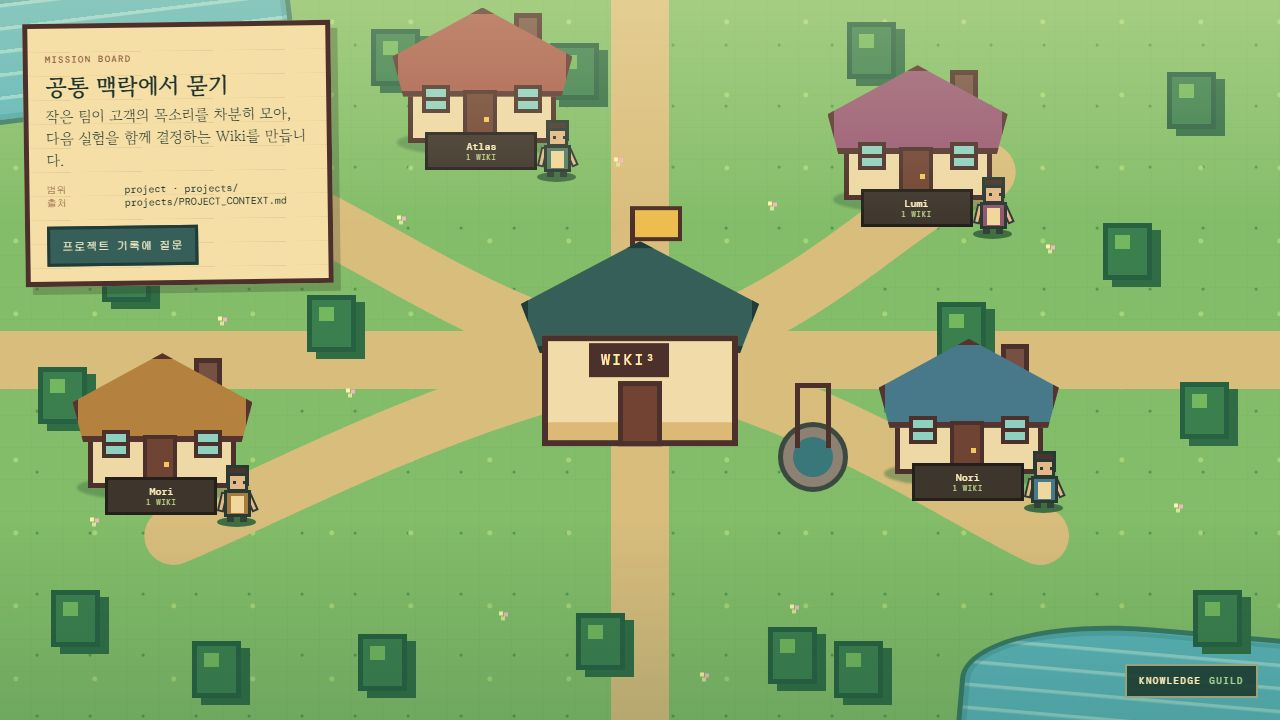
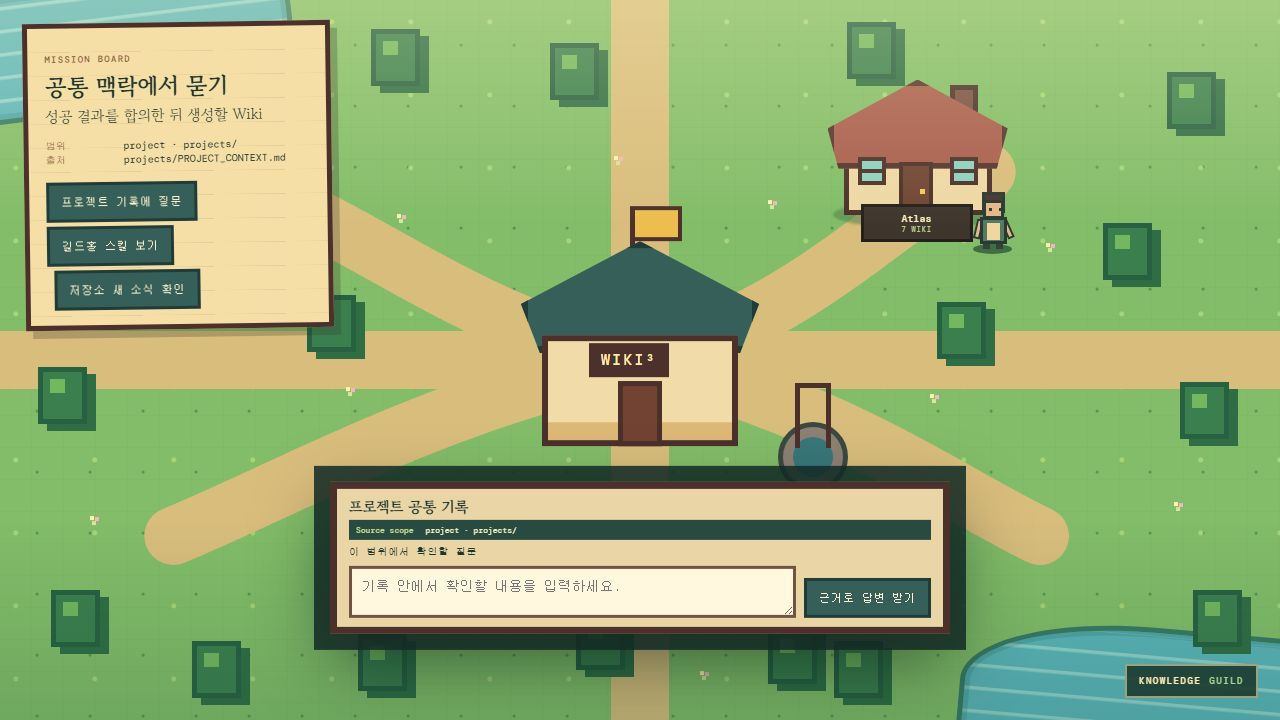
fix: harden guild workspace interactions

diff --git a/apps/wiki-village/src/village-layout.js b/apps/wiki-village/src/village-layout.js
@@ -2,9 +2,8 @@
 // desktop and mobile viewports. These are conservative visual footprints, not
 // interaction coordinates: the CSS still owns the rendered size.
 export const homeSpots = [
-  { x: 72, y: 23 }, { x: 72, y: 21 }, { x: 13, y: 61 }, { x: 76, y: 59 },
-  { x: 34, y: 70 }, { x: 55, y: 72 }, { x: 34, y: 15 }, { x: 57, y: 14 },
-  { x: 6, y: 39 }, { x: 84, y: 39 }, { x: 23, y: 74 }, { x: 68, y: 76 },
+  { x: 72, y: 23 }, { x: 89, y: 10 }, { x: 89, y: 28 }, { x: 89, y: 44 },
+  { x: 89, y: 60 }, { x: 89, y: 74 }, { x: 10, y: 62 }, { x: 28, y: 62 },
 ]
 
 const persistentUi = {
@@ -24,6 +23,13 @@ const footprint = viewport => viewport === 'mobile'
 
 export function memberHomeIsClearOfPersistentUi(spot, viewport) {
   const size = footprint(viewport)
-  const rect = { left: spot.x - size.width / 2, right: spot.x + size.width / 2, top: spot.y - size.height / 2, bottom: spot.y + size.height / 2 }
+  const x = spot.x ?? spot.left; const y = spot.y ?? spot.top
+  const rect = { left: x - size.width / 2, right: x + size.width / 2, top: y - size.height / 2, bottom: y + size.height / 2 }
   return persistentUi[viewport].every(zone => rect.right <= zone.left || rect.left >= zone.right || rect.bottom <= zone.top || rect.top >= zone.bottom)
+}
+
+export function memberHomePosition(index) {
+  const spot = homeSpots[index % homeSpots.length]
+  const ring = Math.floor(index / homeSpots.length)
+  return { left: Math.min(92, spot.x + ring * 2), top: Math.min(78, spot.y + ring * 2) }
 }

diff --git a/apps/wiki-village/src/App.jsx b/apps/wiki-village/src/App.jsx
@@ -2,7 +2,7 @@ import { useEffect, useMemo, useRef, useState } from 'react'
 import snapshot from './data/wiki-snapshot.json'
 import { isCurrentRequest } from './chat-request.js'
 import Onboarding from './Onboarding.jsx'
-import { homeSpots } from './village-layout.js'
+import { memberHomePosition } from './village-layout.js'
 
 const palette = ['sage', 'berry', 'ochre', 'lake', 'clay', 'plum', 'pine', 'sun']
 
@@ -28,9 +28,8 @@ function PixelAvatar({ member, tone, onEnter, onSelect, pose = 'neutral' }) {
 }
 
 function MemberHome({ member, index, onEnter, onSelect, pose }) {
-  const spot = homeSpots[index % homeSpots.length]
-  const ring = Math.floor(index / homeSpots.length)
-  const position = { left: `${Math.min(88, spot.x + ring * 2)}%`, top: `${Math.min(78, spot.y + ring * 2)}%` }
+  const spot = memberHomePosition(index)
+  const position = { left: `${spot.left}%`, top: `${spot.top}%` }
   const tone = palette[index % palette.length]
   const count = getMemberDocuments(member).length
 
